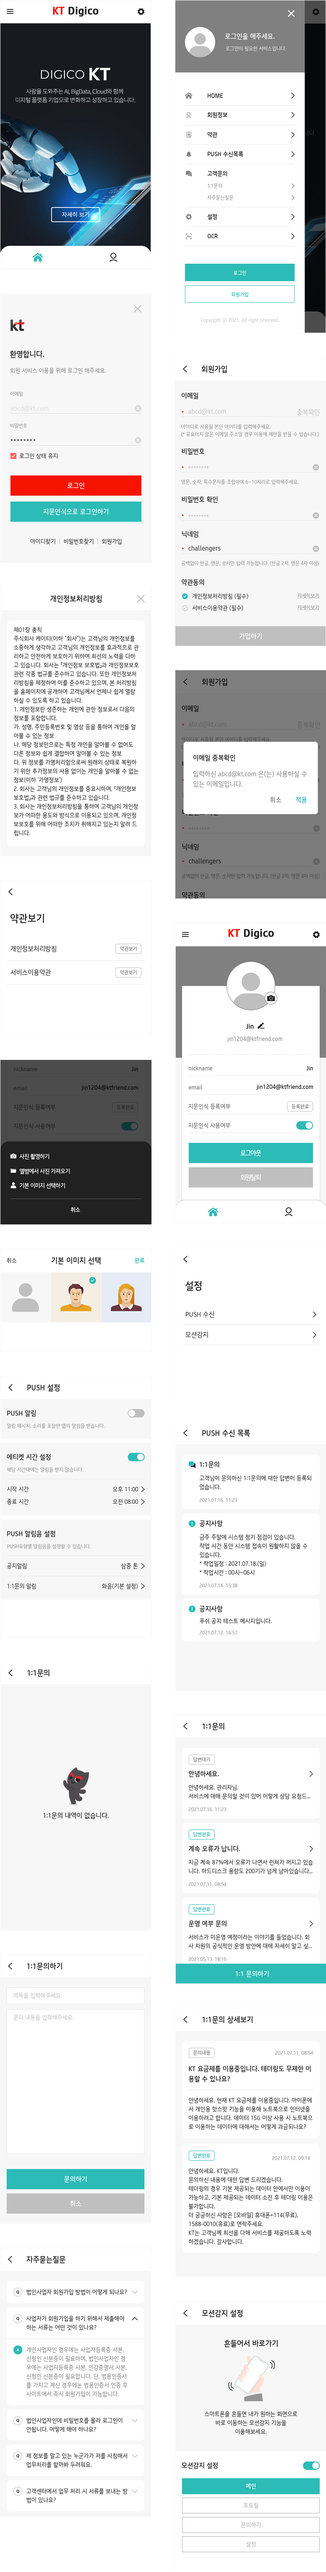
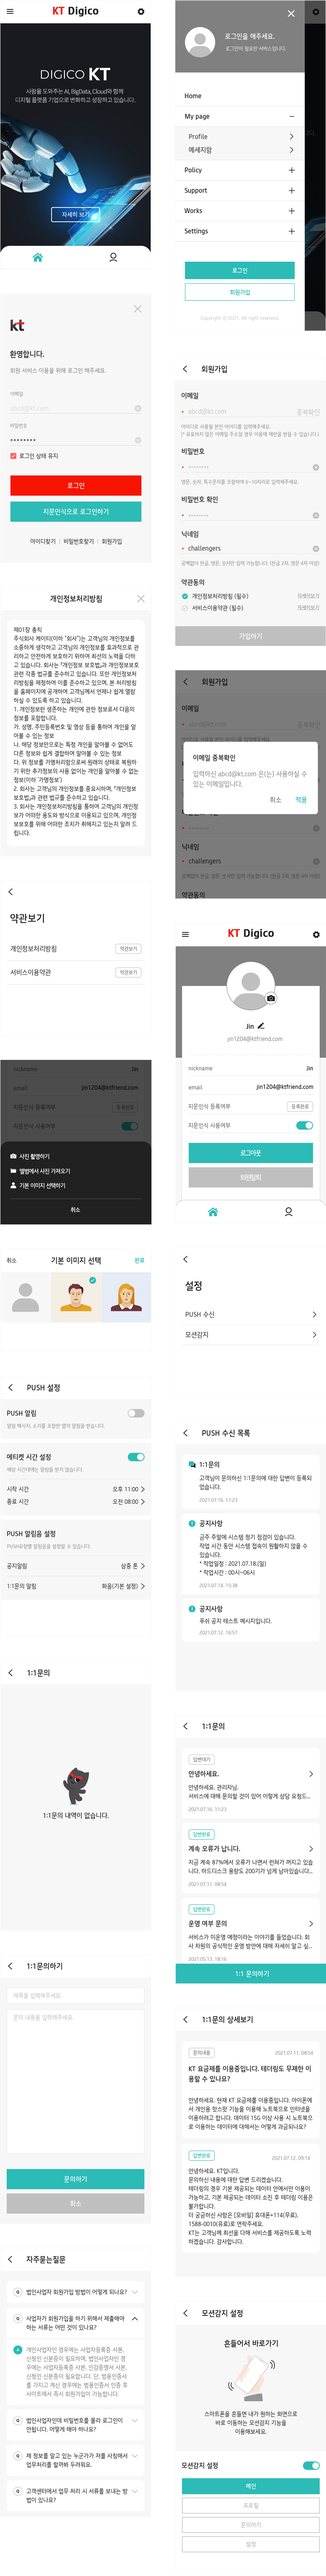
add

diff --git a/kt_always/index.html b/kt_always/index.html
@@ -188,7 +188,7 @@
 				<h2>Main</h2>
 				<p><img src="images/main_guide.png" alt="main_guide" /></p>
 				<div class="h81"></div>
-				<p><img src="images/main_profile_guide.png" alt="main_profile_guide" /></p>
+				<p><img src="images/main_profile_guide2.png" alt="main_profile_guide" /></p>
 				<div class="h81"></div>
 
 				<a name="login">
@@ -297,6 +297,8 @@
 				<div class="icon_list">
 					<p class="icon_big"><img src="images/kt_digico.png" alt="kt_digico" /></p>
 					<p class="icon"><img src="images/kt_logo.png" alt="kt_logo" /></p>
+					<p class="icon"><img src="images/icon/minus.svg" alt="minus" /></p>
+					<p class="icon"><img src="images/icon/plus.svg" alt="plus" /></p>
 				</div>
 				<div class="h40"></div>
 				<div class="icon_list">
